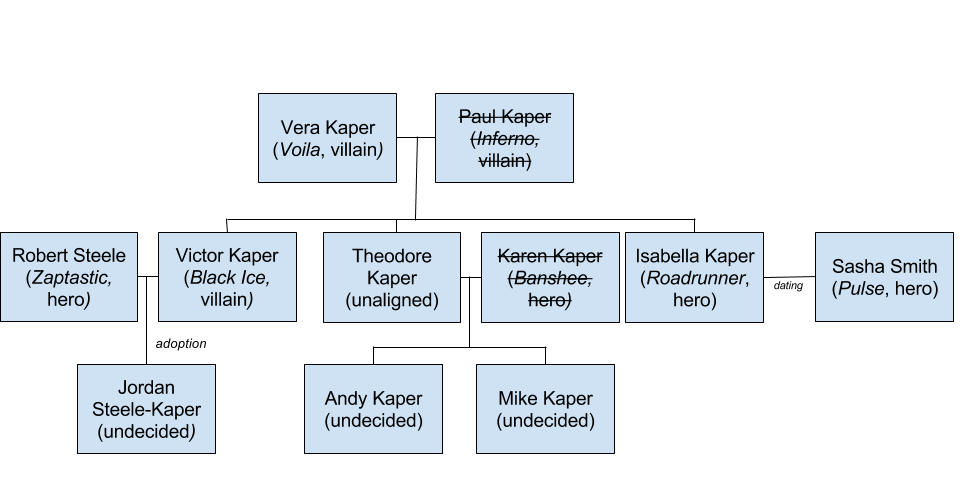
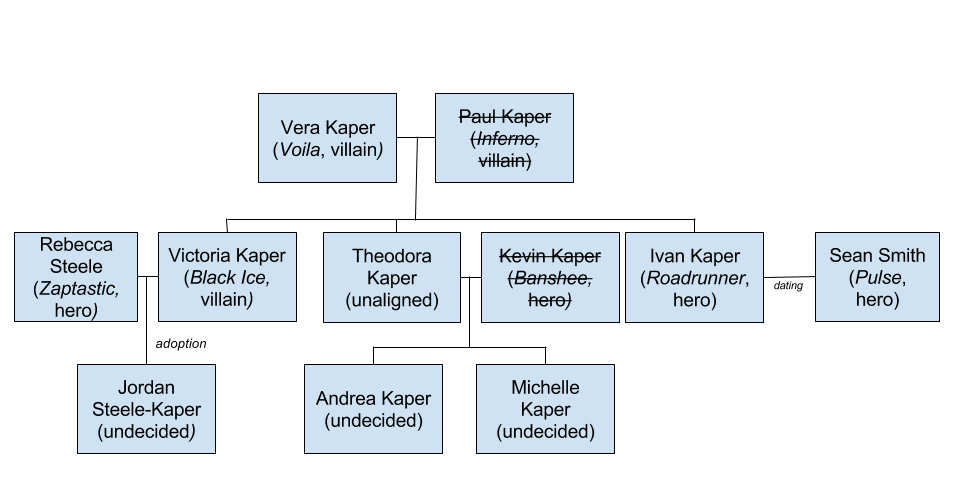
update family tree diagram

diff --git a/Lists/char-LIST.tex b/Lists/char-LIST.tex
@@ -423,10 +423,10 @@
 }
 
 \NEW{NPC}{\cAS}{
-  \s\MYname	{Karen Kaper}
+  \s\MYname	{Kevin Kaper}
   \s\MYnumber	{00000}
   \s\MYdesc	{a test}
-  \s\MYsex	{\female}
+  \s\MYsex	{\male}
   \s\MYsupername{Banshee}
   \s\MYsuperpower{Sound waves}
   \badgefalse
